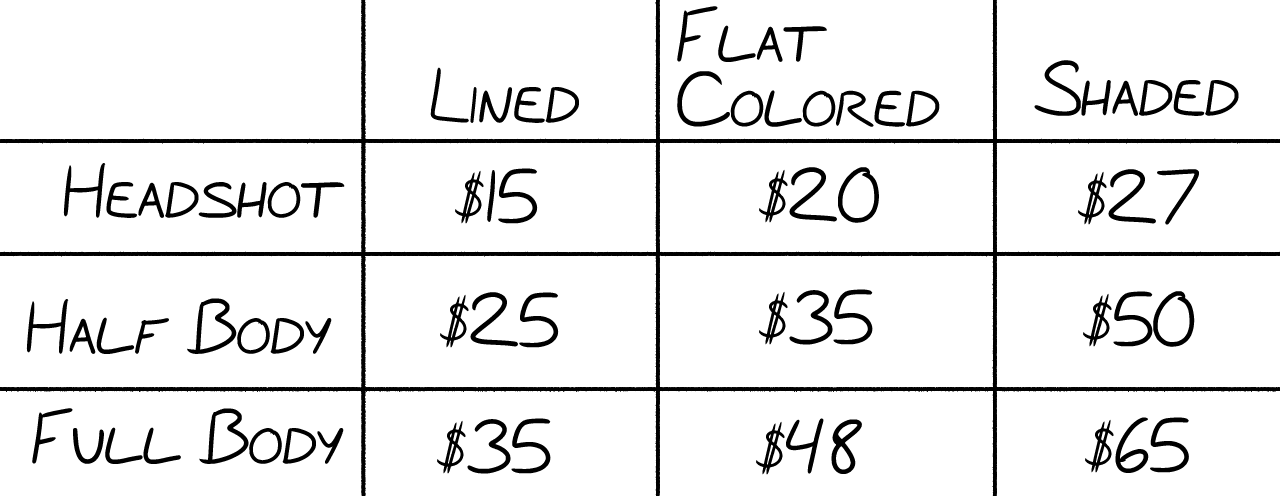
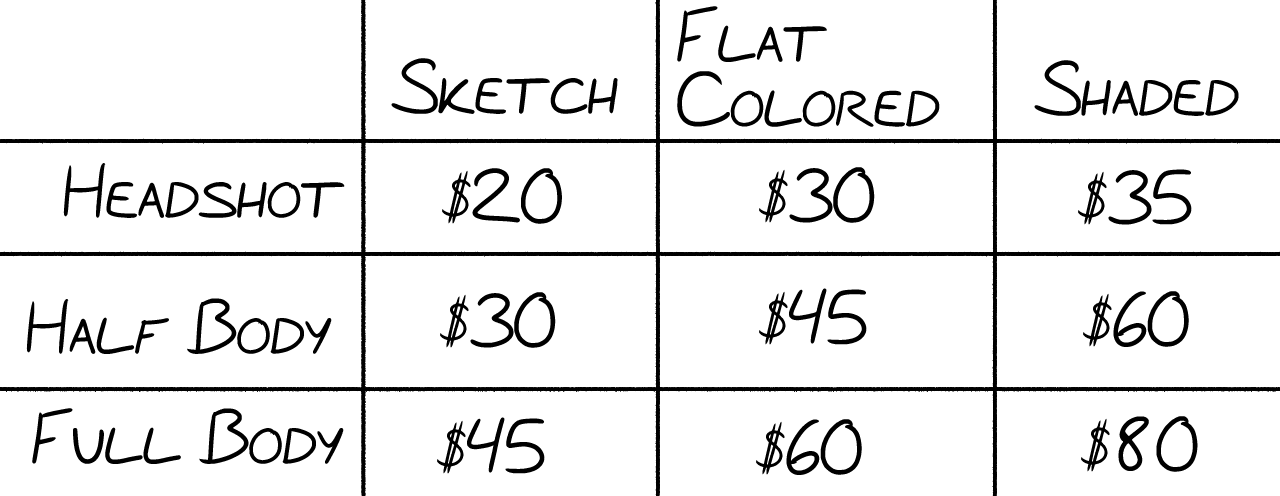
Price/Tier Update

diff --git a/comms.html b/comms.html
@@ -14,7 +14,7 @@
         <div class="container default">
             <h3>Character Illustration:</h3>
             <div class="image">
-                <img src="OffShoulderTop.png"/>
+                <img src="KaylaSweaterSelfieComb.png"/>
                 <p></p>
                 <img src="comm prices.png"/>
             </div>
